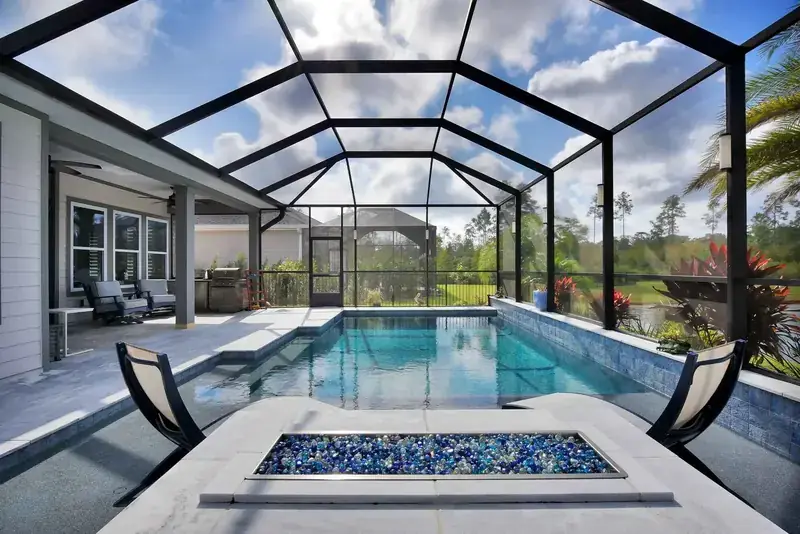
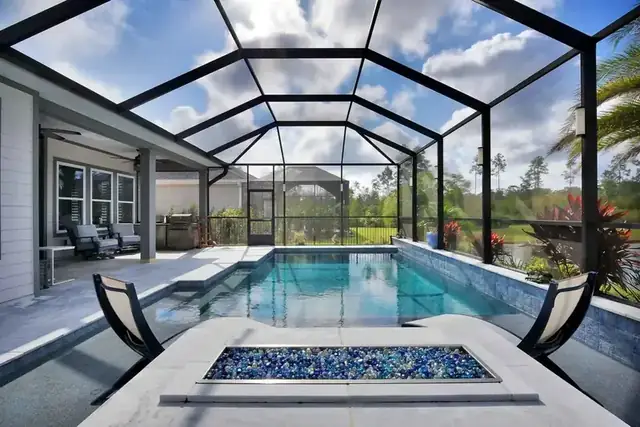
Fix 10s LCP: inline critical CSS, no video poster on mobile, sync decode

diff --git a/Website/index.html b/Website/index.html
@@ -103,10 +103,32 @@
       }
     }
     </script>
-    <link rel="preload" href="public/Photo%201-mobile.webp" as="image" type="image/webp" fetchpriority="high" media="(max-width: 768px)">
-    <link rel="preload" href="public/Photo%201.webp" as="image" type="image/webp" fetchpriority="high" media="(min-width: 769px)">
+    <link rel="preload" href="public/Photo%201-mobile.webp" as="image" type="image/webp" fetchpriority="high">
     <link rel="preload" href="index.css" as="style">
-    <link rel="stylesheet" href="index.css">
+    <style>
+        :root{--nav-height:72px}
+        *,*::before,*::after{box-sizing:border-box}
+        body{margin:0;font-family:Helvetica,Arial,sans-serif;line-height:1.6;color:#333}
+        nav{position:fixed;top:0;left:0;right:0;z-index:1000;padding:1rem 0}
+        .hero{position:relative;margin-top:calc(-1 * var(--nav-height));padding-top:var(--nav-height);min-height:100dvh;display:flex;align-items:center;justify-content:center;overflow:hidden;text-align:center;color:#fff;background:#1a1a1a}
+        .hero-bg-container{position:absolute;inset:0;z-index:0;overflow:hidden}
+        .hero-overlay{position:absolute;inset:0;z-index:2;background:linear-gradient(135deg,rgba(30,60,114,.12) 0%,rgba(0,0,0,.06) 100%)}
+        .hero-content{position:relative;z-index:3;display:flex;flex-direction:column;align-items:center;padding:1rem;max-width:900px;width:100%}
+        .hero h1{font-size:2rem;font-weight:800;margin:0 0 1rem;text-shadow:2px 2px 4px rgba(0,0,0,.5)}
+        .hero-logo{display:block;max-width:220px;width:220px;height:auto;aspect-ratio:280/117;margin:0 auto .8rem}
+        .hero-subtitle,.hero-service-area,.cta-buttons,.hero-stars,.hero-fast-response{max-width:100%}
+        .btn-lottie-icon{display:inline-flex;width:1.45rem;height:1.45rem;flex-shrink:0}
+        .hero-bg-image--lcp{display:none}
+        .hero-bg-video-el{display:none}
+        @media (max-width:768px){
+            .hero-bg-image--lcp{display:block;position:absolute;inset:0;width:100%;height:100%;object-fit:cover;object-position:center;filter:brightness(.85);z-index:0}
+        }
+        @media (min-width:769px){
+            .hero-bg-video-el{display:block;position:absolute;top:50%;left:50%;transform:translate(-50%,-50%);width:100vw;height:100svh;min-width:100%;min-height:100%;object-fit:cover;object-position:center;z-index:0}
+        }
+    </style>
+    <link rel="stylesheet" href="index.css" media="print" onload="this.media='all'">
+    <noscript><link rel="stylesheet" href="index.css"></noscript>
 </head>
 <body>
     <!-- Floating Get Quote Button -->
@@ -138,8 +160,8 @@
     <!-- Hero Section -->
     <section class="hero">
         <div class="hero-bg-container hero-bg-video">
-            <img src="public/Photo%201-mobile.webp" srcset="public/Photo%201-mobile.webp 800w, public/Photo%201.webp 1600w" sizes="(max-width: 768px) 100vw, 0px" alt="" class="hero-bg-image--lcp" width="800" height="534" fetchpriority="high" decoding="async" aria-hidden="true">
-            <video class="hero-bg-video-el" autoplay muted loop playsinline preload="none" poster="public/Photo%201.webp" disablepictureinpicture disableremoteplayback aria-label="Cinematic pool and screen enclosure scene">
+            <img src="public/Photo%201-mobile.webp" alt="" class="hero-bg-image--lcp" width="640" height="427" fetchpriority="high" decoding="sync">
+            <video class="hero-bg-video-el" autoplay muted loop playsinline preload="none" data-poster-desktop="public/Photo%201.webp" disablepictureinpicture disableremoteplayback aria-hidden="true">
                 <source data-hero-video-src="public/loopgood.mp4" type="video/mp4">
             </video>
             <div class="screen-mesh-overlay"></div>
@@ -612,11 +634,14 @@
             var source = v.querySelector('source[data-hero-video-src]');
             if (reduceMotion || isMobile) {
                 v.removeAttribute('autoplay');
+                v.removeAttribute('poster');
                 v.pause();
                 if (source) source.removeAttribute('src');
                 v.load();
                 return;
             }
+            var desktopPoster = v.getAttribute('data-poster-desktop');
+            if (desktopPoster) v.setAttribute('poster', desktopPoster);
             if (source && !source.getAttribute('src')) {
                 source.setAttribute('src', source.getAttribute('data-hero-video-src'));
                 v.preload = 'metadata';
